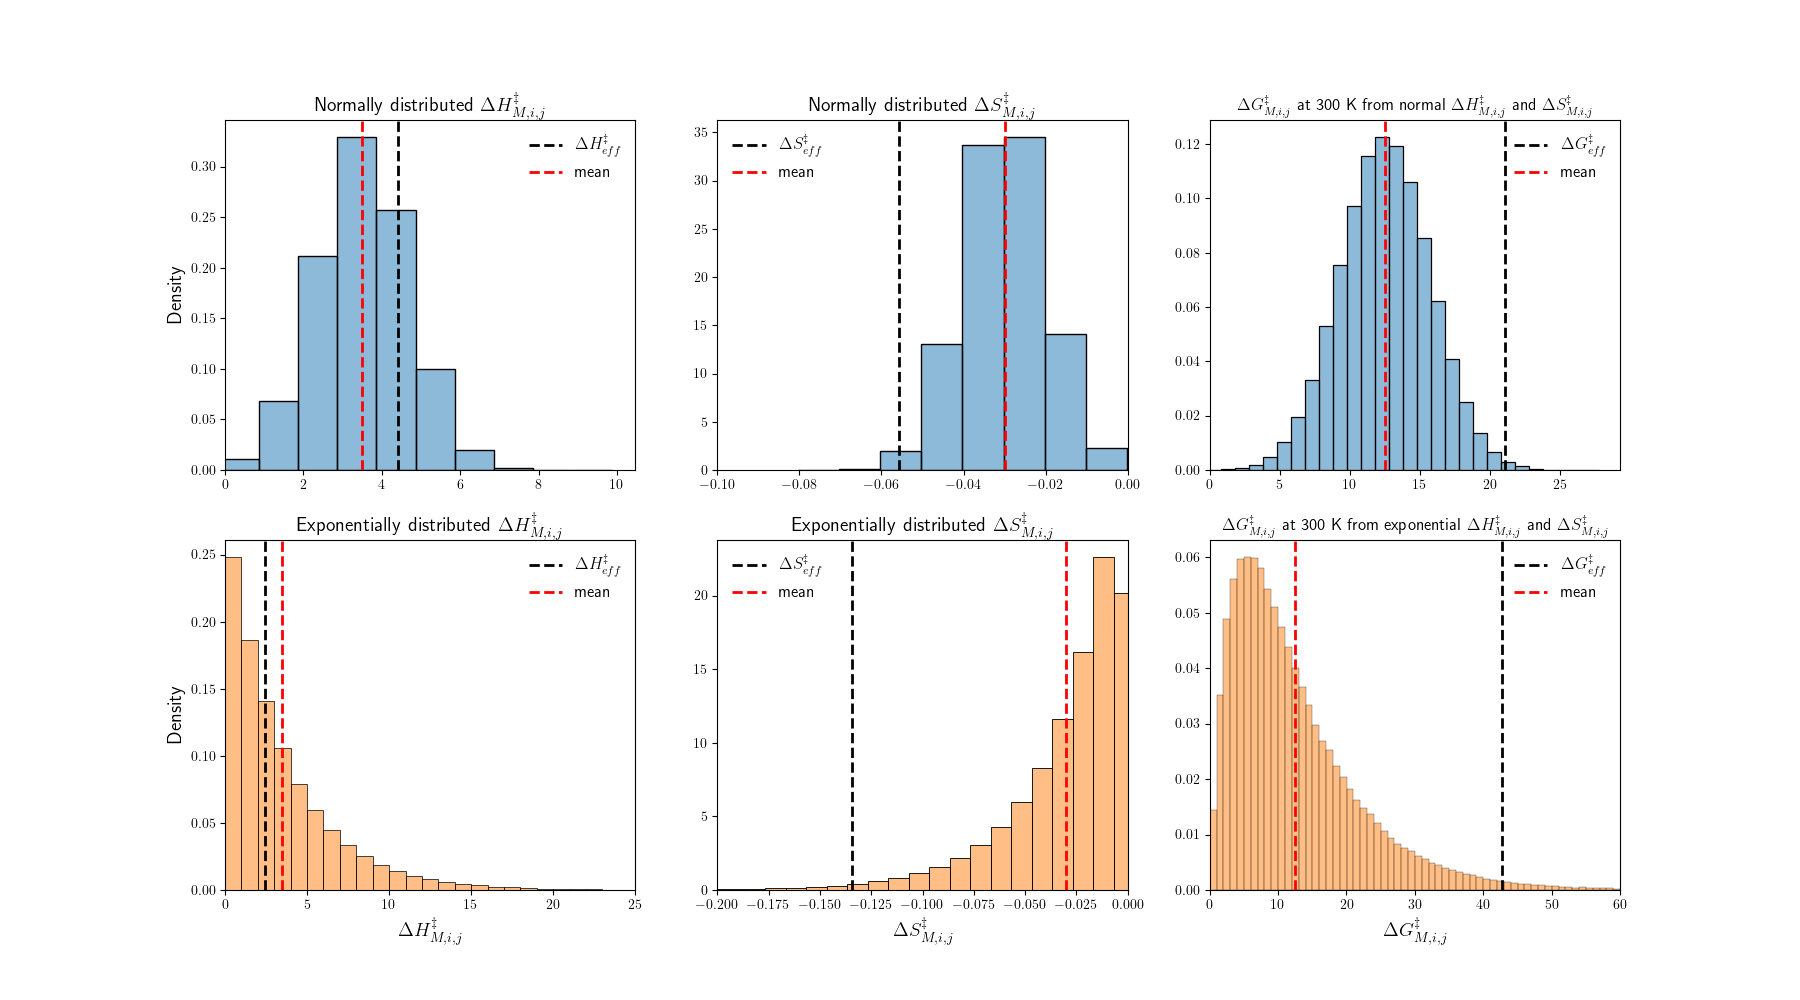
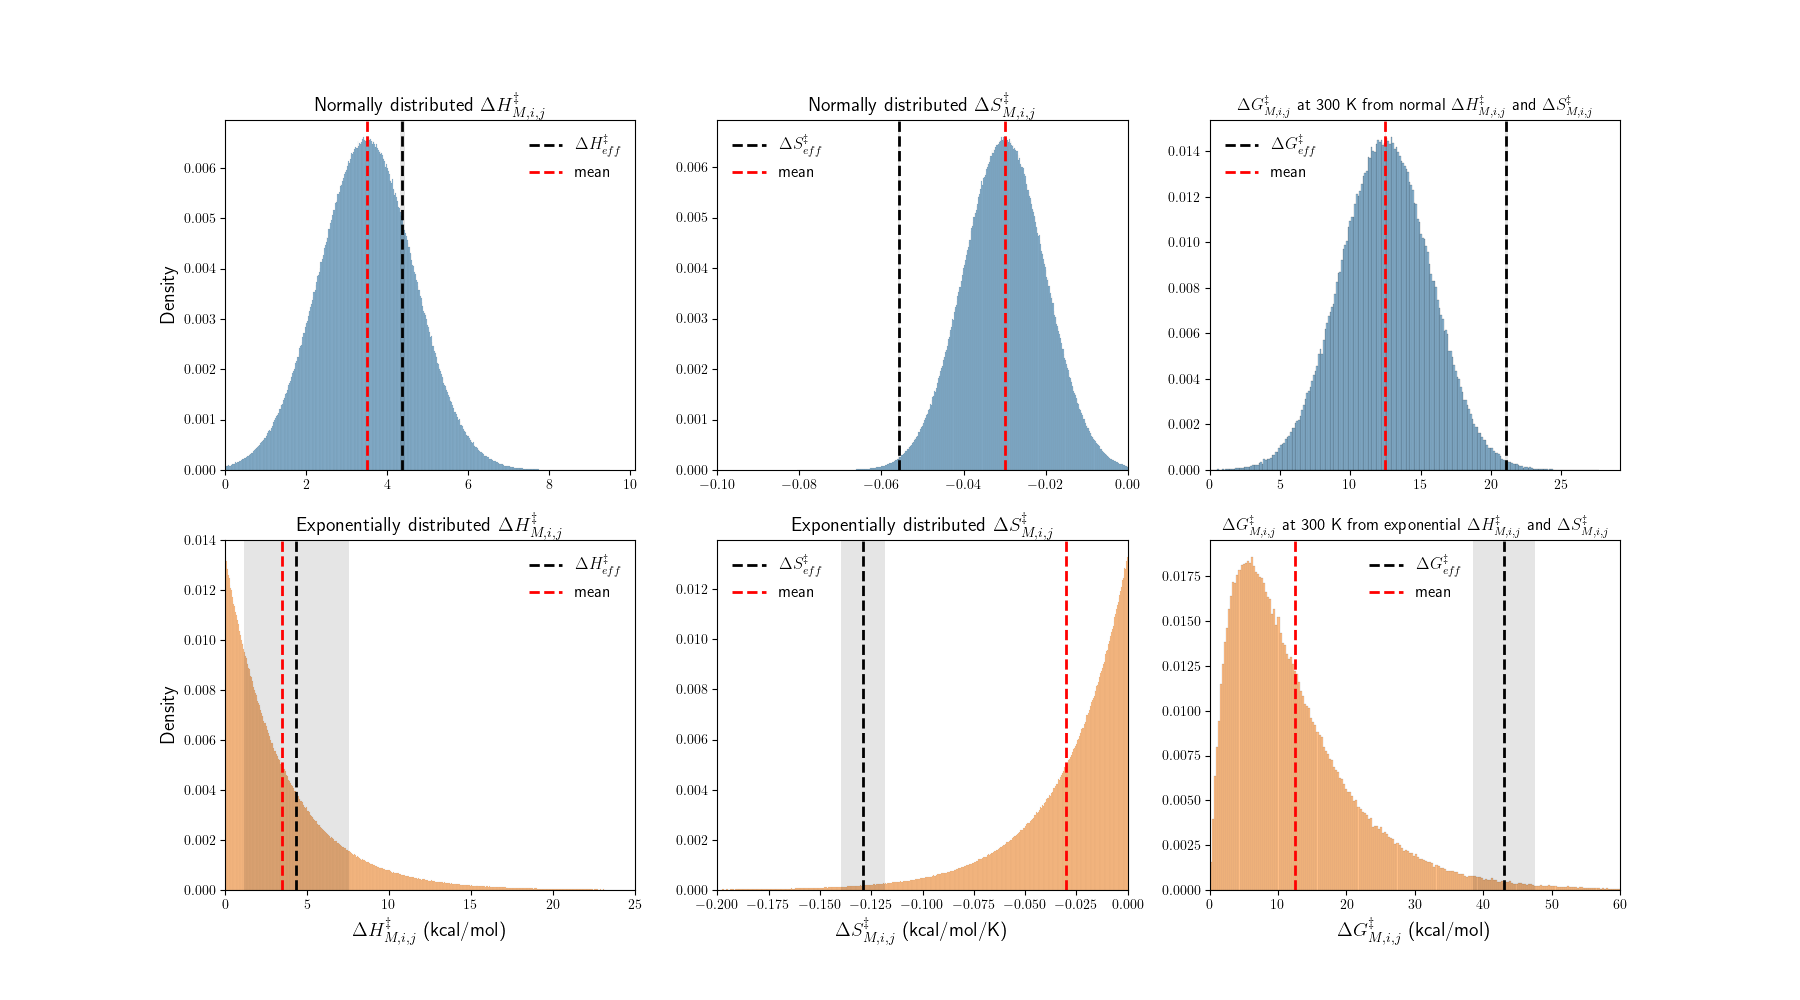
update the dH and dS effective figure (Fig 8)

diff --git a/run_analyses.py b/run_analyses.py
@@ -7,6 +7,7 @@ import seaborn as sns
 from tqdm import tqdm
 
 from scipy.interpolate import CubicSpline
+import statsmodels.api as sm
 
 from eyring_model import EyringModel, Path
 
@@ -460,6 +461,9 @@ def estimate_dH_dS(dH_barrier, dS_barrier, dH_sigma, dS_sigma, n_paths, plot=Fal
     pore_dH = np.zeros(n_paths*len(temps))
     pore_dS = np.zeros(n_paths*len(temps))
 
+    hist_alpha = 0.5
+    error_alpha = 0.1
+
     fig, ax = plt.subplots(2,3, figsize=(18,10), sharex=False)
 
     # MULTIVARIATE NORMAL
@@ -473,10 +477,6 @@ def estimate_dH_dS(dH_barrier, dS_barrier, dH_sigma, dS_sigma, n_paths, plot=Fal
     }
 
     dist = 'normal'
-
-    # dH = 0
-    # dS = 0
-    # dG = 0
 
     all_dH = []
     all_dS = []
@@ -504,9 +504,9 @@ def estimate_dH_dS(dH_barrier, dS_barrier, dH_sigma, dS_sigma, n_paths, plot=Fal
         X[i] = 1 / T
         Y[i] = np.log(P[i]*h*delta / (kB*T*lam**2))
 
-    sns.histplot(all_dH, binwidth=1, edgecolor='k', ax=ax[0,0], stat='density', alpha=0.5, color='tab:blue')
-    sns.histplot(all_dS, binwidth=0.01, edgecolor='k', ax=ax[0,1], stat='density', alpha=0.5, color='tab:blue')
-    sns.histplot(all_dG, binwidth=1, edgecolor='k', ax=ax[0,2], stat='density', alpha=0.5, color='tab:blue')
+    sns.histplot(all_dH, edgecolor='k', ax=ax[0,0], stat='probability', alpha=hist_alpha, color='tab:blue')
+    sns.histplot(all_dS, edgecolor='k', ax=ax[0,1], stat='probability', alpha=hist_alpha, color='tab:blue')
+    sns.histplot(all_dG, edgecolor='k', ax=ax[0,2], stat='probability', alpha=hist_alpha, color='tab:blue')
 
     dHm = model.paths[n].enthalpic_barriers.mean()
     dSm = model.paths[n].entropic_barriers.mean()
@@ -516,21 +516,31 @@ def estimate_dH_dS(dH_barrier, dS_barrier, dH_sigma, dS_sigma, n_paths, plot=Fal
     print(f'Single path dG: {dGm}')
     print(f'Many path contribution R ln(sum(A_i/A)): {R*np.log(np.sum(model.areas) / model.area)} or -RT ln(sum(A_i/A)) at 300 K: {-R*300*np.log(np.sum(model.areas) / model.area)}')
 
-    # avg_dH = dH / n_paths / len(temps)
-    # avg_dS = dS / n_paths / len(temps)
-    # avg_dG = dG / n_paths / len(temps)
     avg_dH = np.mean(all_dH)
     avg_dS = np.mean(all_dS)
     avg_dG = np.mean(all_dG)
-    print(f'\nAverage dH: {avg_dH}')
-    print(f'Average dS: {avg_dS}')
-    print(f'Average dG: {avg_dG}')
+    sem_dH = np.std(all_dH) / np.sqrt(np.size(all_dH))
+    sem_dS = np.std(all_dS) / np.sqrt(np.size(all_dS))
+    sem_dG = np.std(all_dG) / np.sqrt(np.size(all_dG))
+    print(f'\nAverage dH: {avg_dH} +/- {sem_dH}')
+    print(f'Average dS: {avg_dS} +/- {sem_dS}')
+    print(f'Average dG: {avg_dG} +/- {sem_dG}')
 
-    A = np.vstack([X, np.ones(len(X))]).T
-    m, b = np.linalg.lstsq(A,Y, rcond=None)[0]
-    print(f'\ndH_eff : {-m*R}')
-    print(f'dS_eff : {b*R} or -T dS_eff at 300 K: {-300*b*R}')
-    print(f'dG_eff at 300 K from averaged effective barriers: {dG_eff.mean()} or from dH_eff and dS_eff: {-m*R - 300*b*R}')
+    # A = np.vstack([X, np.ones(len(X))]).T
+    # m, b = np.linalg.lstsq(A,Y, rcond=None)[0]
+    A = sm.add_constant(X)
+    model = sm.OLS(Y, A)
+    results = model.fit()
+    b, m = results.params
+    be, me = results.bse
+
+    eff_dH = np.array([-m*R, me*R]) # estimate, error
+    eff_dS = np.array([b*R, be*R])
+    eff_dG = np.array([eff_dH[0]-300*eff_dS[0], np.sqrt(eff_dH[1]**2 + (300*eff_dS[1])**2)])
+
+    print(f'\ndH_eff : {eff_dH[0]} +/- {eff_dH[1]}')
+    print(f'dS_eff : {eff_dS[0]} +/- {eff_dS[1]} or -T dS_eff at 300 K: {-300*eff_dS[0]} +/- {300*eff_dS[1]}')
+    print(f'dG_eff at 300 K from averaged effective barriers: {dG_eff.mean()} or from dH_eff and dS_eff: {eff_dG[0]} +/- {eff_dG[1]}')
 
     if plot:
         # plot effective, single path, mean barriers
@@ -538,19 +548,21 @@ def estimate_dH_dS(dH_barrier, dS_barrier, dH_sigma, dS_sigma, n_paths, plot=Fal
         ax[0,1].set_title('Normally distributed $\Delta S_{M,i,j}^{\ddag}$', fontsize=14)
         ax[0,2].set_title('$\Delta G_{M,i,j}^{\ddag}$ at 300 K from normal $\Delta H_{M,i,j}^{\ddag}$ and $\Delta S_{M,i,j}^{\ddag}$')
 
-        ax[0,0].axvline(-m*R, ls='dashed', c='k', label='$\Delta H_{eff}^{\ddag}$', lw=2)
+        ax[0,0].axvline(eff_dH[0], ls='dashed', c='k', label='$\Delta H_{eff}^{\ddag}$', lw=2)
+        ax[0,0].axvspan(eff_dH[0] - eff_dH[1], eff_dH[0] + eff_dH[1], facecolor='k', edgecolor=None, alpha=error_alpha)
         ax[0,0].axvline(avg_dH, ls='dashed', c='red', label='mean', lw=2)
-        # ax[0,0].axvline(dG_eff.mean(), ls='dashed', c='k', label='$\Delta G_{eff}$')
-
-        ax[0,1].axvline(b*R, ls='dashed', c='k', label='$\Delta S_{eff}^{\ddag}$', lw=2)
+        ax[0,0].axvspan(avg_dH - sem_dH, avg_dH + sem_dH, facecolor='red', edgecolor=None, alpha=error_alpha)
+        
+        ax[0,1].axvline(eff_dS[0], ls='dashed', c='k', label='$\Delta S_{eff}^{\ddag}$', lw=2)
+        ax[0,1].axvspan(eff_dS[0] - eff_dS[1], eff_dS[0] + eff_dS[1], facecolor='k', edgecolor=None, alpha=error_alpha)
         ax[0,1].axvline(avg_dS, ls='dashed', c='red', label='mean', lw=2)
-        # ax[0,1].axvline(dG_eff.mean(), ls='dashed', c='k', label='$\Delta G_{eff}$')
+        ax[0,1].axvspan(avg_dS - sem_dS, avg_dS + sem_dS, facecolor='red', edgecolor=None, alpha=error_alpha)
 
-        ax[0,2].axvline(-m*R-300*b*R, ls='dashed', c='k', label='$\Delta G_{eff}^{\ddag}$', lw=2)
+        ax[0,2].axvline(eff_dG[0], ls='dashed', c='k', label='$\Delta G_{eff}^{\ddag}$', lw=2)
+        ax[0,2].axvspan(eff_dG[0] - eff_dG[1], eff_dG[0] + eff_dG[1], facecolor='k', edgecolor=None, alpha=error_alpha)
         ax[0,2].axvline(avg_dG, ls='dashed', c='red', label='mean', lw=2)
+        ax[0,2].axvspan(avg_dG - sem_dG, avg_dG + sem_dG, facecolor='red', edgecolor=None, alpha=error_alpha)
 
-        # ax[0,0].set_xlabel('$\Delta H_{M,j}^{\ddag}$', fontsize=14)
-        # ax[0,1].set_xlabel('$-T \Delta S_{M,j}^{\ddag}$', fontsize=14)
         ax[0,0].set_ylabel('Density', fontsize=14)
         ax[0,1].set_ylabel(None)
         ax[0,2].set_ylabel(None)
@@ -580,10 +592,6 @@ def estimate_dH_dS(dH_barrier, dS_barrier, dH_sigma, dS_sigma, n_paths, plot=Fal
 
     dist = 'exponential'
 
-    # dH = 0
-    # dS = 0
-    # dG = 0
-
     all_dH = []
     all_dS = []
     all_dG = []
@@ -593,9 +601,6 @@ def estimate_dH_dS(dH_barrier, dS_barrier, dH_sigma, dS_sigma, n_paths, plot=Fal
         for n in range(n_paths):
             model.add_Path(n_jumps=200, lam=10)
             model.paths[n].generate_membrane_barriers(dist=dist, multi=multi, dist_params=params)
-            # dH += model.paths[n].enthalpic_barriers.mean()
-            # dS += model.paths[n].entropic_barriers.mean()
-            # dG += model.paths[n].membrane_barriers.mean()
             if plot:
                 [all_dH.append(b) for b in model.paths[n].enthalpic_barriers]
                 [all_dS.append(b) for b in model.paths[n].entropic_barriers]
@@ -609,9 +614,9 @@ def estimate_dH_dS(dH_barrier, dS_barrier, dH_sigma, dS_sigma, n_paths, plot=Fal
         X[i] = 1 / T
         Y[i] = np.log(P[i]*h*delta / (kB*T*lam**2))
 
-    sns.histplot(all_dH, binwidth=1, edgecolor='k', ax=ax[1,0], stat='density', alpha=0.5, color='tab:orange')
-    sns.histplot(all_dS, binwidth=0.01, edgecolor='k', ax=ax[1,1], stat='density', alpha=0.5, color='tab:orange')
-    sns.histplot(all_dG, binwidth=1, edgecolor='k', ax=ax[1,2], stat='density', alpha=0.5, color='tab:orange')
+    sns.histplot(all_dH, edgecolor='k', ax=ax[1,0], stat='probability', alpha=hist_alpha, color='tab:orange')
+    sns.histplot(all_dS, edgecolor='k', ax=ax[1,1], stat='probability', alpha=hist_alpha, color='tab:orange')
+    sns.histplot(all_dG, edgecolor='k', ax=ax[1,2], stat='probability', alpha=hist_alpha, color='tab:orange')
 
     dHm = model.paths[n].enthalpic_barriers.mean()
     dSm = model.paths[n].entropic_barriers.mean()
@@ -621,21 +626,31 @@ def estimate_dH_dS(dH_barrier, dS_barrier, dH_sigma, dS_sigma, n_paths, plot=Fal
     print(f'Single path dG: {dGm}')
     print(f'Many path contribution R ln(sum(A_i/A)): {R*np.log(np.sum(model.areas) / model.area)} or -RT ln(sum(A_i/A)) at 300 K: {-R*300*np.log(np.sum(model.areas) / model.area)}')
 
-    # avg_dH = dH / n_paths / len(temps)
-    # avg_dS = dS / n_paths / len(temps)
-    # avg_dG = dG / n_paths / len(temps)
     avg_dH = np.mean(all_dH)
     avg_dS = np.mean(all_dS)
     avg_dG = np.mean(all_dG)
-    print(f'\nAverage dH: {avg_dH}')
-    print(f'Average dS: {avg_dS}')
-    print(f'Average dG: {avg_dG}')
+    sem_dH = np.std(all_dH) / np.sqrt(np.size(all_dH))
+    sem_dS = np.std(all_dS) / np.sqrt(np.size(all_dS))
+    sem_dG = np.std(all_dG) / np.sqrt(np.size(all_dG))
+    print(f'\nAverage dH: {avg_dH} +/- {sem_dH}')
+    print(f'Average dS: {avg_dS} +/- {sem_dS}')
+    print(f'Average dG: {avg_dG} +/- {sem_dG}')
 
-    A = np.vstack([X, np.ones(len(X))]).T
-    m, b = np.linalg.lstsq(A,Y, rcond=None)[0]
-    print(f'\ndH_eff : {-m*R}')
-    print(f'dS_eff : {b*R} or -T dS_eff at 300 K: {-300*b*R}')
-    print(f'dG_eff at 300 K from averaged effective barriers: {dG_eff.mean()} or from dH_eff and dS_eff: {-m*R - 300*b*R}')
+    # A = np.vstack([X, np.ones(len(X))]).T
+    # m, b = np.linalg.lstsq(A,Y, rcond=None)[0]
+    A = sm.add_constant(X)
+    model = sm.OLS(Y, A)
+    results = model.fit()
+    b, m = results.params
+    be, me = results.bse
+    
+    eff_dH = np.array([-m*R, me*R]) # estimate, error
+    eff_dS = np.array([b*R, be*R])
+    eff_dG = np.array([eff_dH[0]-300*eff_dS[0], np.sqrt(eff_dH[1]**2 + (300*eff_dS[1])**2)])
+
+    print(f'\ndH_eff : {eff_dH[0]} +/- {eff_dH[1]}')
+    print(f'dS_eff : {eff_dS[0]} +/- {eff_dS[1]} or -T dS_eff at 300 K: {-300*eff_dS[0]} +/- {300*eff_dS[1]}')
+    print(f'dG_eff at 300 K from averaged effective barriers: {dG_eff.mean()} or from dH_eff and dS_eff: {eff_dG[0]} +/- {eff_dG[1]}')
 
     df2 = pd.DataFrame()
     df2['distribution'] = ['multiple exponentials']*len(temps)
@@ -651,23 +666,28 @@ def estimate_dH_dS(dH_barrier, dS_barrier, dH_sigma, dS_sigma, n_paths, plot=Fal
         ax[1,1].set_title('Exponentially distributed $\Delta S_{M,i,j}^{\ddag}$', fontsize=14)
         ax[1,2].set_title('$\Delta G_{M,i,j}^{\ddag}$ at 300 K from exponential $\Delta H_{M,i,j}^{\ddag}$ and $\Delta S_{M,i,j}^{\ddag}$')
 
-        ax[1,0].axvline(-m*R, ls='dashed', c='k', label='$\Delta H_{eff}^{\ddag}$', lw=2)
+        ax[1,0].axvline(eff_dH[0], ls='dashed', c='k', label='$\Delta H_{eff}^{\ddag}$', lw=2)
+        ax[1,0].axvspan(eff_dH[0] - eff_dH[1], eff_dH[0] + eff_dH[1], facecolor='k', edgecolor=None, alpha=error_alpha)
         ax[1,0].axvline(avg_dH, ls='dashed', c='red', label='mean', lw=2)
+        ax[1,0].axvspan(avg_dH - sem_dH, avg_dH + sem_dH, facecolor='red', edgecolor=None, alpha=error_alpha)
         
-        ax[1,1].axvline(b*R, ls='dashed', c='k', label='$\Delta S_{eff}^{\ddag}$', lw=2)
+        ax[1,1].axvline(eff_dS[0], ls='dashed', c='k', label='$\Delta S_{eff}^{\ddag}$', lw=2)
+        ax[1,1].axvspan(eff_dS[0] - eff_dS[1], eff_dS[0] + eff_dS[1], facecolor='k', edgecolor=None, alpha=error_alpha)
         ax[1,1].axvline(avg_dS, ls='dashed', c='red', label='mean', lw=2)
-        # ax[1,1].axvline(dG_eff.mean(), ls='dashed', c='k', label='$\Delta G_{eff}$')
+        ax[1,1].axvspan(avg_dS - sem_dS, avg_dS + sem_dS, facecolor='red', edgecolor=None, alpha=error_alpha)
 
-        ax[1,2].axvline(-m*R-300*b*R, ls='dashed', c='k', label='$\Delta G_{eff}^{\ddag}$', lw=2)
+        ax[1,2].axvline(eff_dG[0], ls='dashed', c='k', label='$\Delta G_{eff}^{\ddag}$', lw=2)
+        ax[1,2].axvspan(eff_dG[0] - eff_dG[1], eff_dG[0] + eff_dG[1], facecolor='k', edgecolor=None, alpha=error_alpha)
         ax[1,2].axvline(avg_dG, ls='dashed', c='red', label='mean', lw=2)
-        
+        ax[1,2].axvspan(avg_dG - sem_dG, avg_dG + sem_dG, facecolor='red', edgecolor=None, alpha=error_alpha)
+
         ax[1,0].set_xlim(0,25)
         ax[1,1].set_xlim(-0.2,0)
         ax[1,2].set_xlim(0,60)
 
-        ax[1,0].set_xlabel('$\Delta H_{M,i,j}^{\ddag}$', fontsize=14)
-        ax[1,1].set_xlabel('$\Delta S_{M,i,j}^{\ddag}$', fontsize=14)
-        ax[1,2].set_xlabel('$\Delta G_{M,i,j}^{\ddag}$', fontsize=14)
+        ax[1,0].set_xlabel('$\Delta H_{M,i,j}^{\ddag}$ (kcal/mol)', fontsize=14)
+        ax[1,1].set_xlabel('$\Delta S_{M,i,j}^{\ddag}$ (kcal/mol/K)', fontsize=14)
+        ax[1,2].set_xlabel('$\Delta G_{M,i,j}^{\ddag}$ (kcal/mol)', fontsize=14)
         ax[1,0].set_ylabel('Density', fontsize=14)
         ax[1,1].set_ylabel(None)
         ax[1,2].set_ylabel(None)
@@ -675,17 +695,6 @@ def estimate_dH_dS(dH_barrier, dS_barrier, dH_sigma, dS_sigma, n_paths, plot=Fal
         ax[1,0].legend(fontsize=12, frameon=False, ncol=1)
         ax[1,1].legend(fontsize=12, frameon=False, ncol=1)
         ax[1,2].legend(fontsize=12, frameon=False, ncol=1)
-
-    # df = pd.concat((df1,df2))
-
-    # sns.lmplot(data=df, x='1/T', y='ln(P h del / kB T lam^2)', hue='distribution', 
-    #            scatter_kws={'alpha':0.75, 'edgecolor':'black'})
-
-    # plt.figure()
-    # sns.scatterplot(data=df, x='temperature', y='permeability', hue='distribution')
-
-    # sns.lmplot(data=df, x='temperature', y='effective free energy', hue='distribution',
-    #            scatter_kws={'alpha':0.75, 'edgecolor':'black'})
 
     plt.savefig('figs/dH_dS_distributions.png')
     plt.show()
@@ -1019,19 +1028,19 @@ if __name__ == '__main__':
     # Figure 5
     # parallel_pores(dH_barrier, dS_barrier, dH_sigma, dS_sigma, dG_barrier, T=T, multi=multi)
     
-    # Figure 6
+    # Figure S1
     # compare_jump_lengths(dH_barrier, dS_barrier, n_paths, delta=400, T=T, multi=multi)
     
-    # Data for Figure 7
+    # Data for Figure 6
     # barrier_variance(dH_barrier, dS_barrier, n_paths=n_paths, T=T)
 
-    # Figure 8
+    # Figure 7
     # is_equal = True
     # while is_equal:
     #     is_equal = vary_everything(avg_jumps, jump_dist, jump_params, barrier_dist, barrier_params, n_paths=n_paths)
 
-    # Figure 9
-    # estimate_dH_dS(dH_barrier, dS_barrier, dH_sigma, dS_sigma, n_paths=n_paths, plot=True)
+    # Figure 8
+    estimate_dH_dS(dH_barrier, dS_barrier, dH_sigma, dS_sigma, n_paths=n_paths, plot=True)
     
     # Unused
     # fixed_jump_length(dH_barrier, dS_barrier, n_paths=n_paths, T=T, multi=multi)
